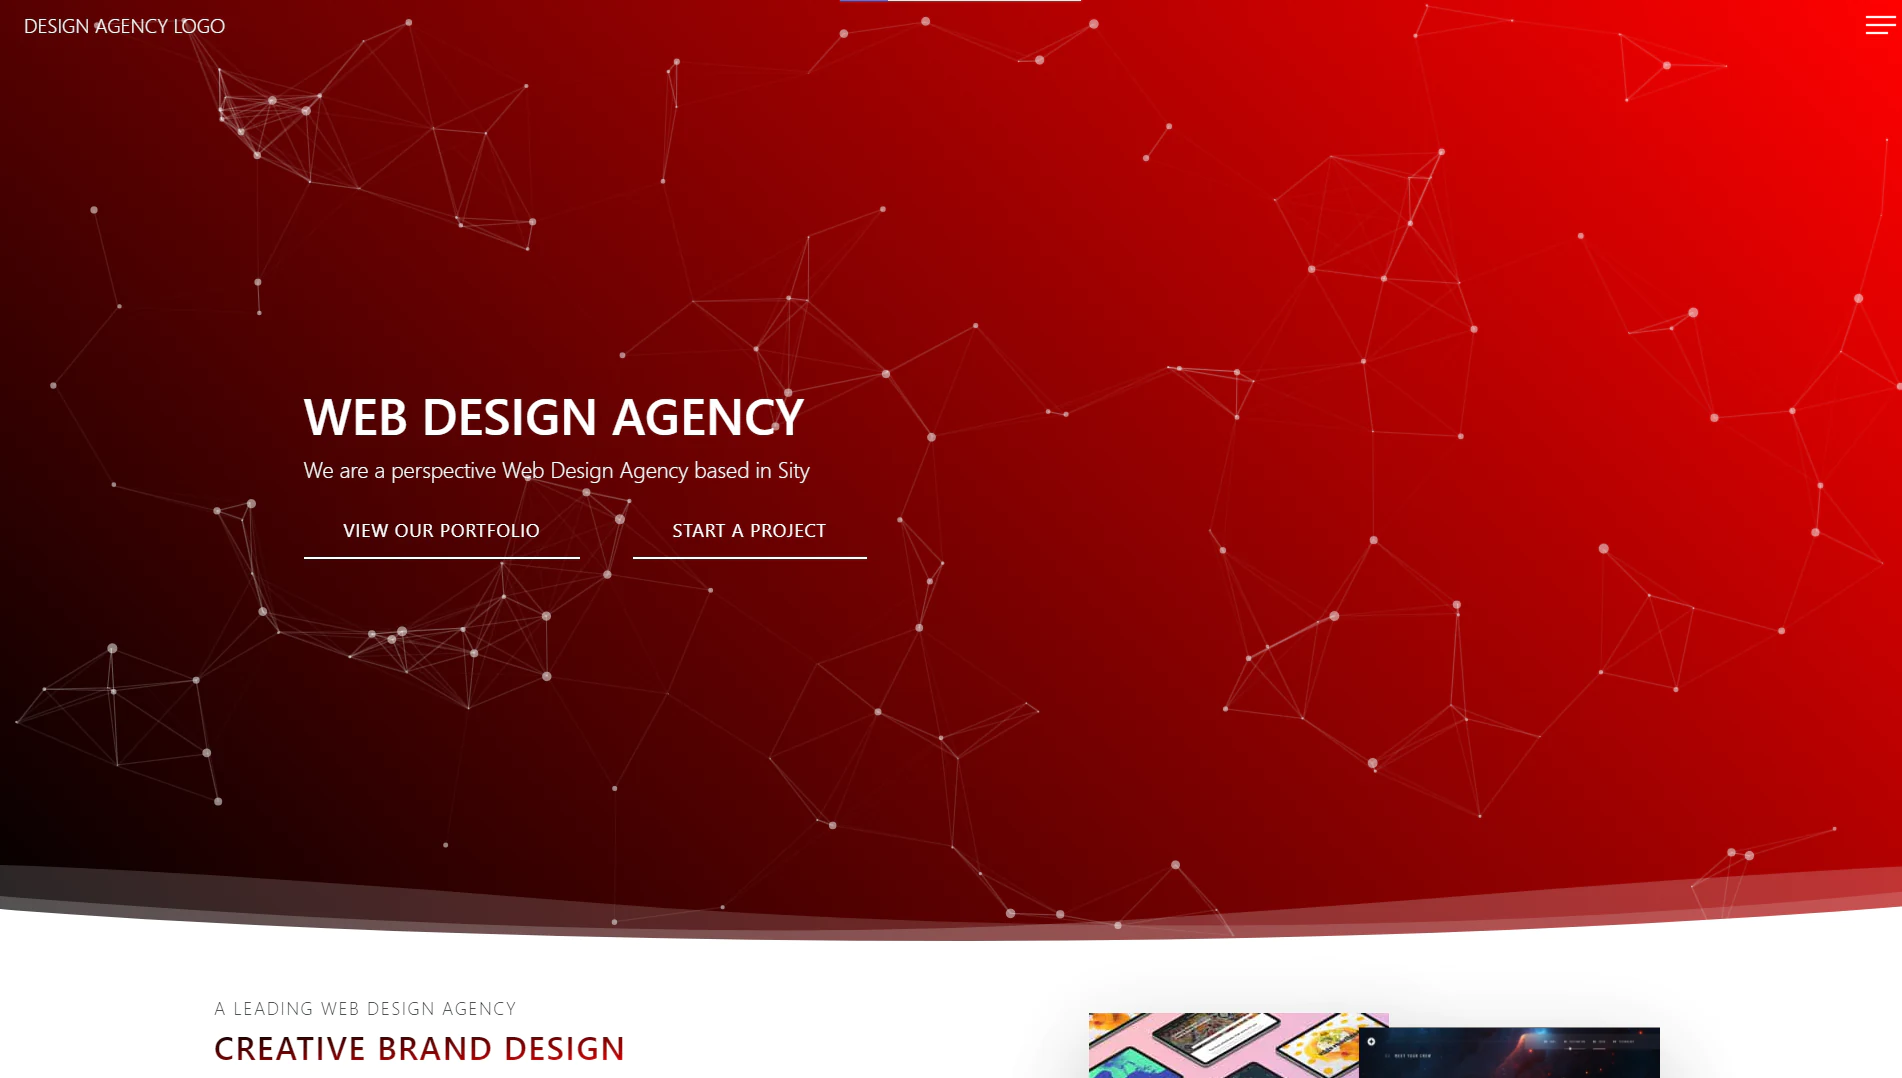
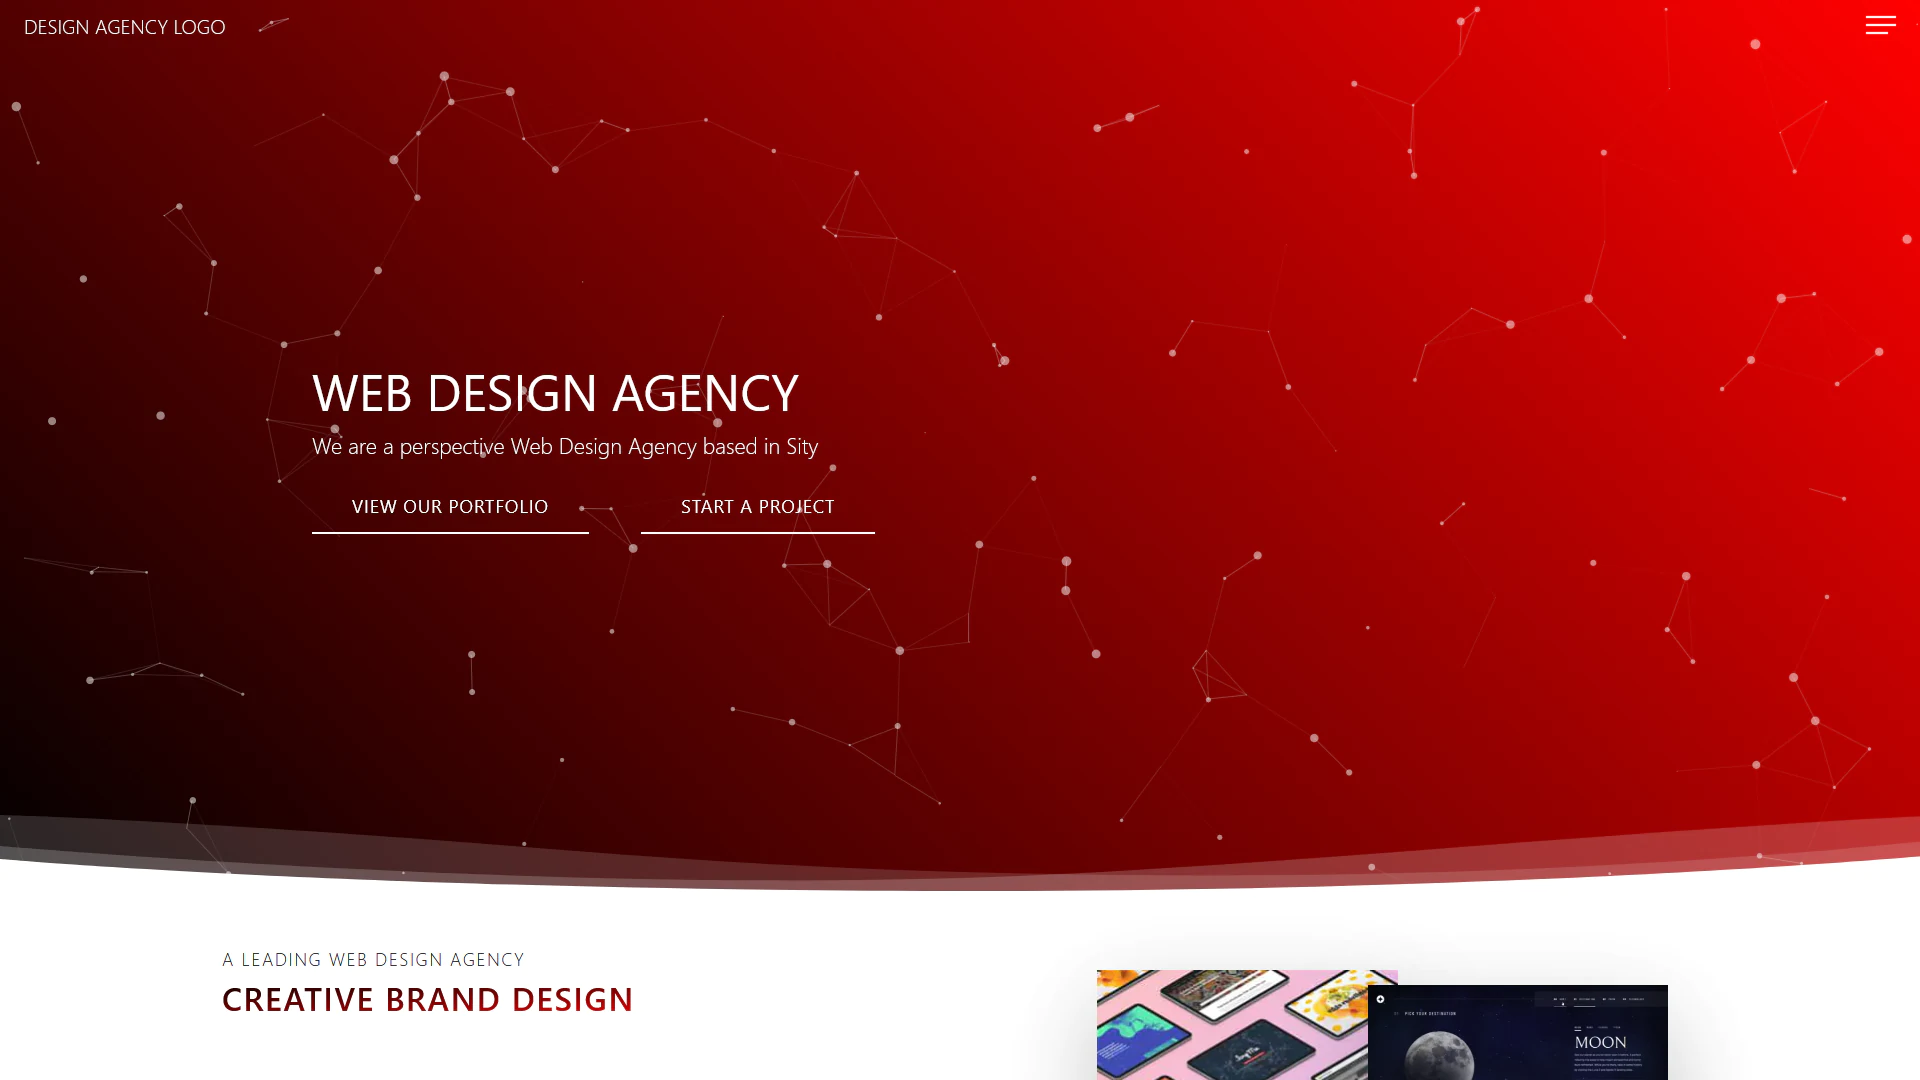
Добавлены новые стили

diff --git a/src/components/bottomSlider/bottomSlider.module.scss b/src/components/bottomSlider/bottomSlider.module.scss
@@ -3,6 +3,7 @@ $bottom-margin: 50px;
 
 .wrapper{
     color: white;
+    padding: 0 10px !important;
     
     @media screen and (max-width: 768px) {
         width: calc(100% - 80px);
@@ -21,40 +22,91 @@ $bottom-margin: 50px;
     position: relative;
     padding: 25px 0;
     margin-top: 25px;
-    
+
     @media screen and (min-width: 1280px) {
         height: 175px;
         width: 100vw;
-
-        &::after{
-            content: '';
-            position: absolute;
-            height: 2px;
-            background-color: black;
-            top: 0;
-            left: 0;
-            right: 0;
-        }
     }
 }
 
+@keyframes anim {
+    0%{background-position: right;}    
+    100%{background-position: left;}    
+}
+
+.header{
+    position: absolute;
+    height: 3px;
+    left: 0;
+    right: 0;
+    top: 0;
+    background-image: linear-gradient(to right, black, 45%, gold, 55%, black);
+    background-size: 300% 100%;
+    animation: anim 5s linear alternate infinite;
+}
+
 .slide{
-    width: 200px;
     user-select: none;
+    position: relative;
+    padding-bottom: 2px;
+
+    &::before{
+        content: '';
+        position: absolute;
+        left: 0px;
+        top: 0px;
+        background-color: rgb(255, 231, 97);
+        clip-path: polygon(-2px -2px, 100% -2px, -2px 100%);
+        width: 40px;
+        height: 40px;
+        border-top: 2px solid black;
+        border-left: 2px solid black;
+        z-index: 3;
+    }
+    
+    &::after{
+        content: '';
+        position: absolute;
+        right: -5px;
+        bottom: 0px;
+        background-color: #fdff6b;
+        clip-path: polygon(100% 0, 100% 100%, 0 100%);
+        width: 30px;
+        height: 30px;
+        box-shadow: inset 0 0 1px black; 
+    }
 }
 
 .image{
-    width: 100%;
-    height: 100%;
+    width: calc(100% - 4px);
+    height: calc(100% - 4px);
+    position: relative;
     object-fit: cover;
-    border: 2px solid black;
+    margin-left: 2px;
+    margin-top: 2px;
+    box-shadow: 2px 2px 4px black;
+    z-index: 2;
+    user-select: none;
 }
 
 .links{
     position: absolute;
-    top: 0;
+    top: 3px;
     left: 50%;
     transform: translateX(-50%) translateY(-100%);
+    background-color: rgba($color: #1e1b1b, $alpha: 1);
+    clip-path: polygon(7% 0, 93% 0, 100% 100%, 0 100%);
+    z-index: 5;
+
+    &::before{
+        content: '';
+        position: absolute;
+        width: 100%;
+        height: 100%;
+        z-index: 20;
+        pointer-events: none;
+        box-shadow: inset 0 0 0 2px #1e1b1b;
+    }
 }
 
 .link{
@@ -63,14 +115,58 @@ $bottom-margin: 50px;
     padding: 5px 40px;
     text-decoration: none;
     color: white;
-    background-color: rgba($color: #1e1b1b, $alpha: .8);
+    transition: background-color .5s, color .5s;
+
+    &:hover{
+        background-color: white;
+        color: black;
+    }
+
+    &::before{
+        content: '';
+        position: absolute;
+        width: 2px;
+        height: calc(100% + 25px);
+        background-color: #1e1b1b;
+        top: -5px;
+    }
 
     &:first-child{
-        clip-path: polygon(0 100%, 15% 0%, 100% 0%, 100% 100%);
+        padding-left: 60px;
+        padding-right: 60px;
+        position: relative;
+
+        &::before{
+            left: 7px;
+            rotate: 35deg;
+        }
     }
 
     &:last-child{
         position: relative;
-        clip-path: polygon(0 0, 85% 0%, 100% 100%, 0 100%);
+
+        &::before{
+            right: 8px;
+            rotate: -35deg;
+        }
+
+        &::after{
+            content: '';
+            position: absolute;
+            left: -20px;
+            top: 0;
+            height: calc(100% - 2px);
+            width: 35px;
+            pointer-events: none;
+            border-radius: 50%;
+            background-color: white;
+            background-size: 60%;
+            background-repeat: no-repeat;
+            background-position: center;
+            background-image: url('/icons/link.svg');
+            border: 1px solid #1e1b1b;
+
+            z-index: 5555;
+        }
     }
 }

diff --git a/src/components/Info/info.module.scss b/src/components/Info/info.module.scss
@@ -10,27 +10,65 @@
         width: 350px;
     }
 
-    &::after{
-        content: '';
+    // &::after{
+    //     content: '';
+    //     position: absolute;
+    //     top: 0;
+    //     right: calc(100% + 20px);
+    //     width: 10px;
+    //     height: 100%;
+    //     border-left: 2px solid rgb(163, 3, 3);
+    //     border-right: 2px solid rgb(163, 3, 3);
+    // }
+
+    // &::before{
+    //     content: '';
+    //     position: absolute;
+    //     top: 200px;
+    //     right: calc(100% + 10px);
+    //     width: 30px;
+    //     height: 30px;
+    //     border-top: 2px solid #1e1b1b;
+    //     border-right: 2px solid #1e1b1b;
+    //     rotate: 45deg;
+    // }
+}
+
+@keyframes line-animation {
+    0%{
+        background-position: bottom;
+    }
+    80%{
+        background-position: top;
+    }
+    100%{
+        background-position: top;
+    }
+}
+
+.lines{
+    position: absolute;
+    left: -30px;
+    top: 0;
+    height: 100%;
+    width: 10px;
+    
+    &::after,
+    &::before{
         position: absolute;
+        content: '';
+        left: 0;
         top: 0;
-        right: calc(100% + 20px);
-        width: 10px;
+        animation: line-animation 10s linear infinite;
+        background-image: linear-gradient(to bottom, #1e1b1b, 48%,  gold, 52%, #1e1b1b);
+        background-size: 100% 300%;
         height: 100%;
-        border-left: 2px solid #1e1b1b;
-        border-right: 2px solid #1e1b1b;
+        width: 2px;
     }
 
-    &::before{
-        content: '';
-        position: absolute;
-        top: 200px;
-        right: calc(100% + 10px);
-        width: 30px;
-        height: 30px;
-        border-top: 2px solid #1e1b1b;
-        border-right: 2px solid #1e1b1b;
-        rotate: 45deg;
+    &::after{
+        left: 10px;
+        animation-delay: 1.5s;
     }
 }
 

diff --git a/src/components/bottomSlider/BottomSlider.tsx b/src/components/bottomSlider/BottomSlider.tsx
@@ -29,15 +29,16 @@ const BottomSlider = ({setNumber, links}: {
     return(
         <div className={style["slider-outer"]}>
             <div className={style.links}>
-                <a className={style.link} href={links.github}>Code</a>
-                <a className={style.link} href={links.website}>Visit Site</a>
+                <a className={style.link} href={links.github} target='_blank'>Code</a>
+                <a className={style.link} href={links.website} target='_blank'>Visit Site</a>
             </div>
+            <div className={style.header}></div>
             <Swiper
                 modules={[A11y, Mousewheel, Keyboard]}
-
                 breakpoints={{
                     390: {
-                        slidesPerView: 1,
+                        slidesPerView: 3,
+                        spaceBetween: 15
                     },
                     768:{
                         slidesPerView: 3,
@@ -55,6 +56,7 @@ const BottomSlider = ({setNumber, links}: {
                 centeredSlidesBounds={true}
                 slideToClickedSlide={true}
                 centeredSlides={true}
+                allowTouchMove={false}
                 className={style.wrapper}>
                 
                 {swiperSlides}

diff --git a/src/components/backgroundImage/image.module.scss b/src/components/backgroundImage/image.module.scss
@@ -7,8 +7,8 @@
         object-fit: cover;
         left: 0;
         top: 0;
-        width: 100vw;
-        height: 100vh;
+        width: 100%;
+        height: 100%;
     }
 
     @media screen and (max-width: 1279px) {
@@ -23,7 +23,7 @@
     opacity: 0;
 
     @media screen and (min-width: 1280px) {
-        object-fit: cover;
+        object-fit: contain;
         left: 0;
         top: 0;
         width: 100vw;

diff --git a/src/components/Info/Info.tsx b/src/components/Info/Info.tsx
@@ -16,6 +16,7 @@ const Info = ({name, text, technologies}: {
 
     return(
         <div className={style.container}>
+            <div className={style.lines}></div>
             <h2 className={style.header}>{name}</h2>
             <div className={style.swiperContainer}>
                 <h3 className={style.title}>Technologies:</h3>
